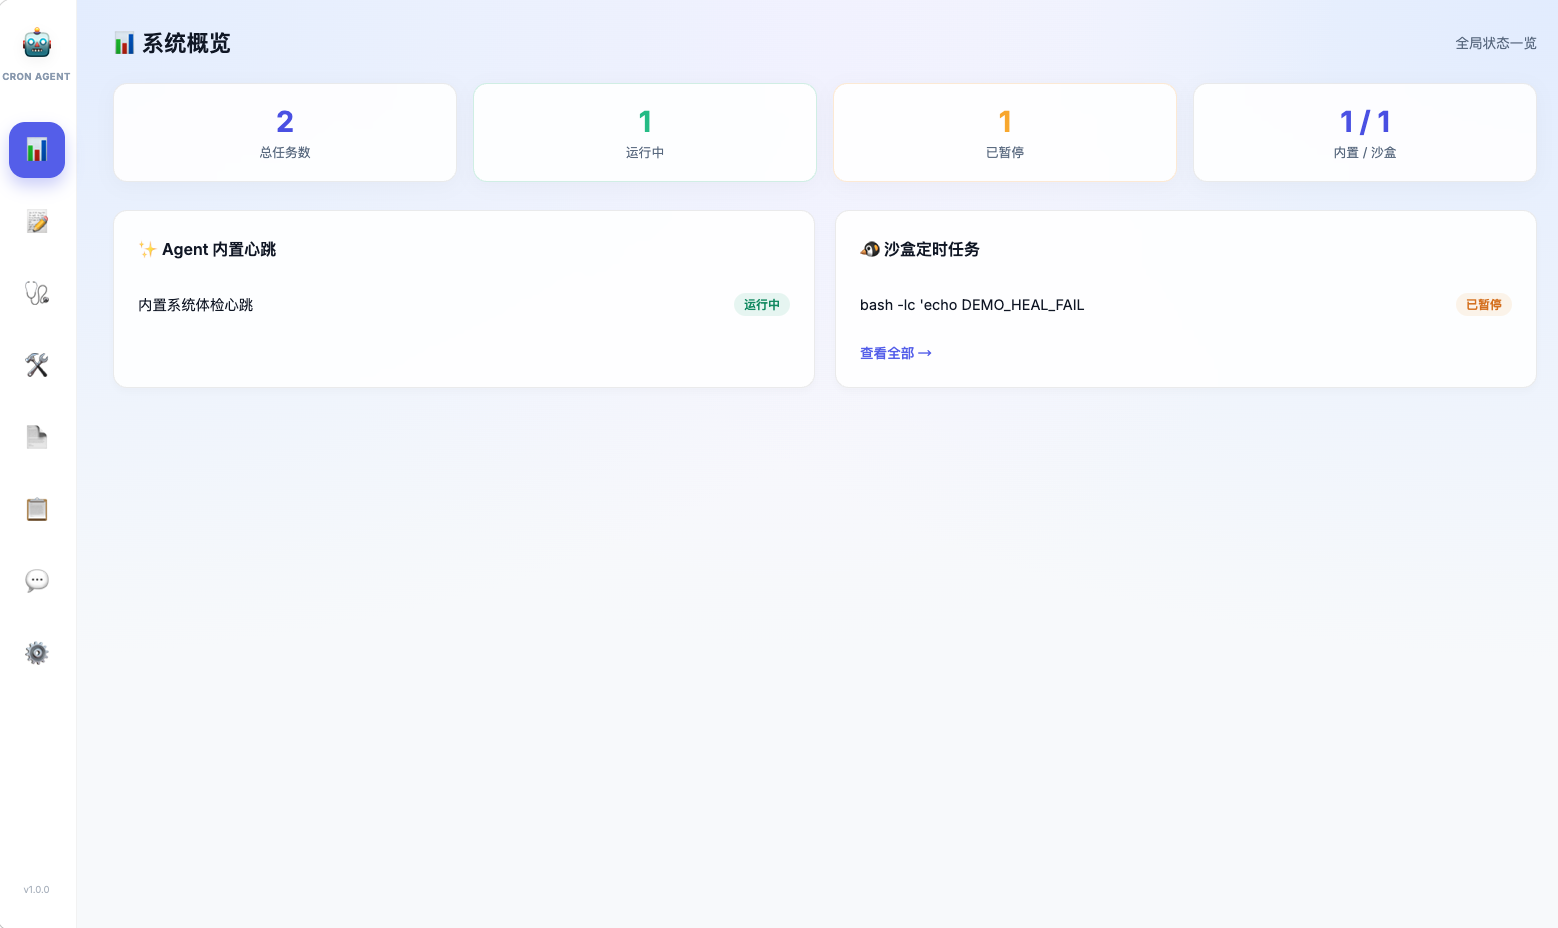
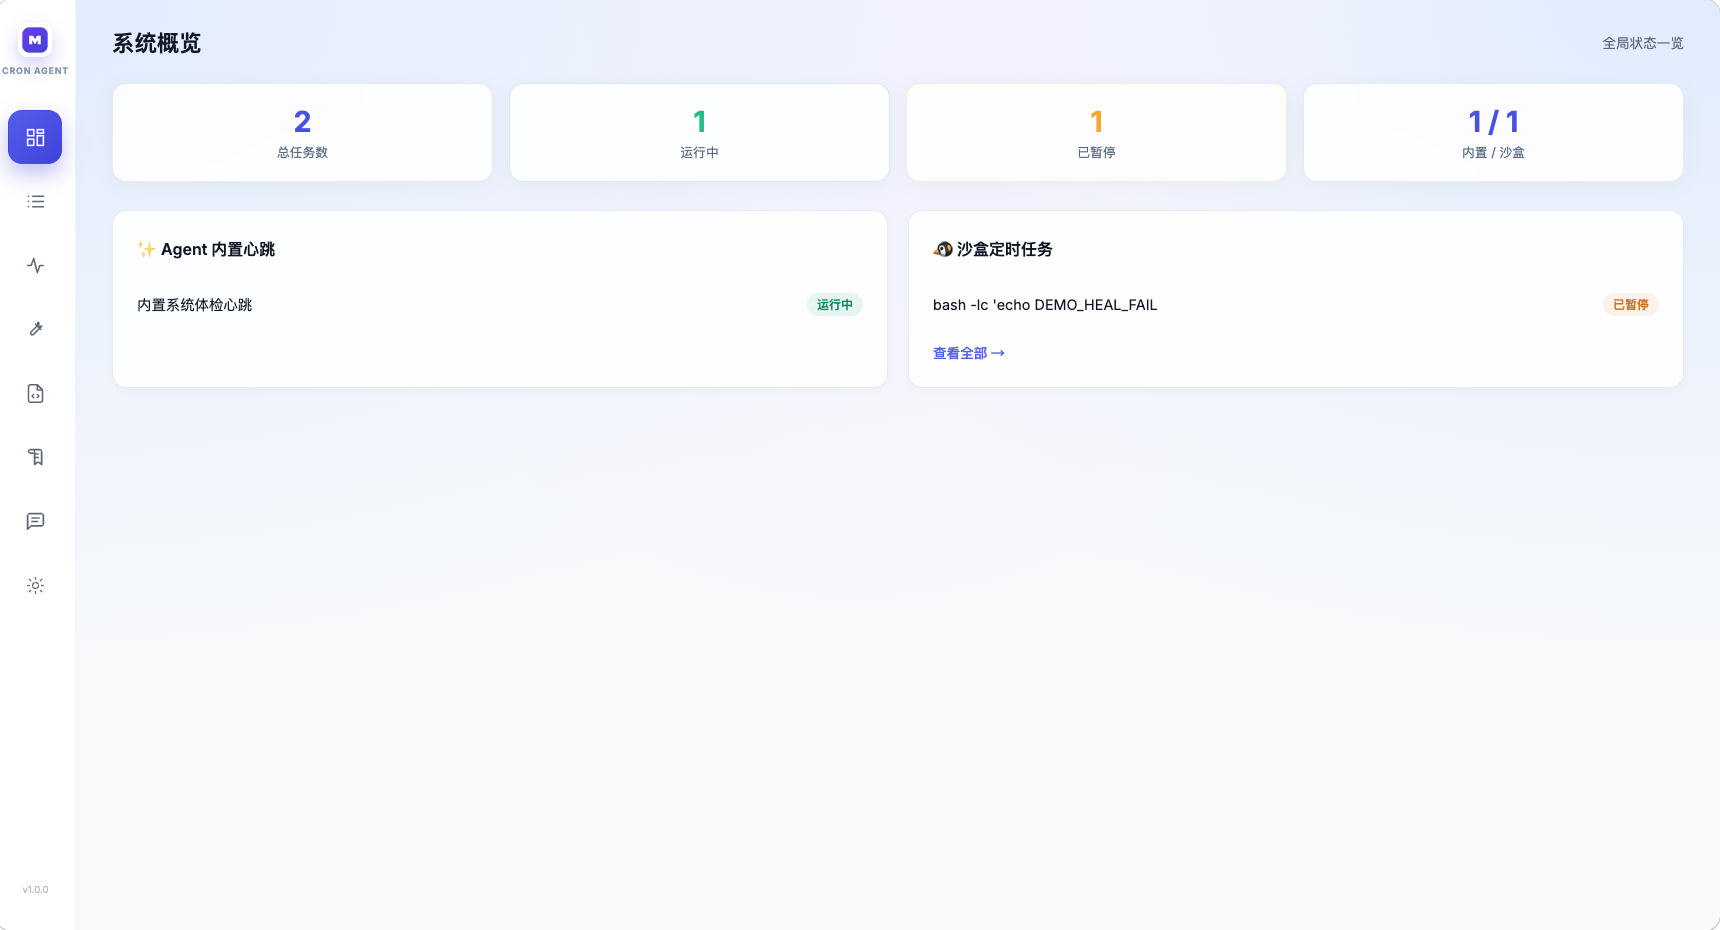
Refresh README and dashboard screenshot

diff --git a/README.md b/README.md
@@ -2,7 +2,7 @@
 
 # Local Cron Agent
 
-### A multi-agent control plane for local automation, scheduling, and self-healing
+### A local-first multi-agent control plane for automation, scheduling, and self-healing
 
 <p>
   <img src="https://img.shields.io/badge/Python-3.9%2B-3776AB?style=for-the-badge&logo=python&logoColor=white" alt="Python">
@@ -14,7 +14,7 @@
 </p>
 
 <p>
-  Turn natural-language instructions into scheduled jobs, sandbox actions, health checks, and recovery workflows through a layered multi-agent system.
+  Turn natural language into managed cron jobs, sandbox scripts, health checks, and recovery workflows.
 </p>
 
 <img src="docs/images/dashboard.png" alt="Local Cron Agent dashboard" width="100%">
@@ -25,56 +25,32 @@
 
 ## Overview
 
-Local Cron Agent is a local-first automation platform built around a **multi-agent collaboration model**.
+Local Cron Agent is a compact operations console for local automation.  
+It combines a Vue dashboard, FastAPI backend, LangGraph orchestration, and a sandbox tool layer to safely run and manage scheduled tasks.
 
-Instead of letting one monolithic agent do everything, the system splits responsibilities across:
+Instead of one monolithic agent loop, responsibilities are split:
 
-- an **Orchestrator Agent** that plans and coordinates work,
-- a **Worker Agent** that executes each step,
-- and a **tool layer** specialized in cron management, shell execution, file generation, service control, system inspection, and recovery actions.
+- **Orchestrator**: planning and step-level flow control.
+- **Worker Agents**: execution by capability domain.
+- **Tool Layer**: cron admin, shell execution, file writing, service control, health scan.
+- **State Layer**: unified task state and run history in SQLite.
 
-The result is a control surface where users can chat with the system, inspect scheduled jobs, repair failed tasks, browse sandbox files, and monitor health status from one interface.
+## What Makes It Useful
 
-## Why It Feels Different
-
-Most cron dashboards stop at CRUD.  
-Local Cron Agent goes further:
-
-- it accepts natural-language requests instead of only form input,
-- it executes through a multi-agent pipeline instead of a single opaque loop,
-- it streams progress back to the UI so execution feels alive,
-- and it closes the loop with health checks and self-healing history.
-
-## Multi-Agent Design
-
-This project is presented as a **real multi-agent collaborative system** with clear role separation.
-
-| Layer | Role | Responsibility |
-| --- | --- | --- |
-| Orchestrator | Planner / Executor / Solver | Breaks down requests, manages state transitions, sequences work, and closes tasks |
-| Worker Agent | Streaming execution agent | Handles step-level reasoning, tool calling, streaming progress, and result emission |
-| Tool Agents | Domain capability layer | Cron admin, shell execution, file writing, health scanning, service control, search |
-| State Layer | TaskManager + SQLite | Stores job state, sync status, run history, heal records |
-| Memory Layer | ChromaDB + short-term context | Retains reusable SOP-like patterns and recent task context |
-
-### How a complex request flows
-
-1. A user sends a natural-language request from the Web UI.
-2. The **LangGraph Orchestrator** converts that request into a stepwise execution plan.
-3. The **Worker Agent** executes each step and calls the right tool.
-4. Progress events stream back over WebSocket in real time.
-5. Task status, health results, and recovery actions are persisted into the local data store.
+- Natural-language task management through chat.
+- Multi-agent task routing and execution flow.
+- Real-time stream feedback over WebSocket.
+- Unified view of internal heartbeat jobs + sandbox cron jobs.
+- Built-in health checks and auto-heal records.
+- Local sandbox boundary (Multipass) for safer command execution.
 
 ## Architecture
 
 ```mermaid
 flowchart LR
-    UI["Vue 3 Control Console"] --> API["FastAPI + WebSocket"]
+    UI["Vue 3 Console"] --> API["FastAPI + WebSocket"]
     API --> ORCH["LangGraph Orchestrator"]
-    ORCH --> PLAN["Planner"]
     ORCH --> EXEC["Executor"]
-    ORCH --> SOLVE["Solver"]
-
     EXEC --> WORKER["Streaming Worker Agent"]
     WORKER --> TOOLS["Tool Layer"]
 
@@ -83,45 +59,30 @@ flowchart LR
     TOOLS --> FILE["Sandbox File Writer"]
     TOOLS --> HEALTH["Health Scanner"]
     TOOLS --> SERVICE["Service Manager"]
-    TOOLS --> SEARCH["Search Tool"]
+    TOOLS --> HEARTBEAT["Agent Heartbeat Controller"]
 
     API --> TM["TaskManager"]
     TM --> DB["SQLite"]
-    WORKER --> MEM["ChromaDB Memory"]
     TOOLS --> VM["Multipass Sandbox"]
 ```
 
-## Product Surfaces
+## Core Screens
 
-The frontend is not just a chat window. It is a compact operations console with multiple views:
-
-- **Dashboard**: overall status for internal jobs and sandbox jobs
-- **Tasks**: inspect, pause, resume, delete, and repair scheduled tasks
-- **Health**: run system checks and review automated healing results
-- **Heal Center**: browse healing actions, categories, and historical outcomes
-- **Scripts**: browse and edit files inside the sandbox
-- **Logs**: inspect backend runtime logs
-- **AI Chat**: issue requests in natural language and watch execution stream live
-
-## Core Capabilities
-
-| Capability | Description |
-| --- | --- |
-| Natural-language task control | Manage jobs and automation through chat |
-| Multi-agent orchestration | Use LangGraph to coordinate planner, executor, and solver roles |
-| Streaming UX | Push step-level execution status through WebSocket |
-| Unified task state | Merge internal jobs and sandbox cron jobs into one state model |
-| Sandbox operations | Execute shell commands and scripts safely inside Multipass |
-| Health and recovery | Run health probes, apply healing actions, and store recovery records |
-| Memory-backed reuse | Preserve successful patterns through local vector memory |
+- **Dashboard**: status summary and quick task visibility.
+- **Tasks**: pause/resume/delete/heal jobs.
+- **Health**: system check and auto-heal feedback.
+- **Heal Center**: categorized heal history.
+- **Scripts**: sandbox file browser + editor.
+- **Logs**: runtime logs.
+- **AI Chat**: natural-language command surface.
 
 ## Tech Stack
 
 ```text
 Frontend       Vue 3 + Vite
 Backend        FastAPI + WebSocket + APScheduler
-Agents         exquisite_agent + custom StreamingFCAgent
 Orchestration  LangGraph
+Agents         exquisite_agent + custom StreamingFCAgent
 Persistence    SQLite
 Memory         ChromaDB
 Sandbox        Multipass Ubuntu VM
@@ -131,57 +92,50 @@ Sandbox        Multipass Ubuntu VM
 
 ```text
 .
-├── server.py                 # Backend entry, APIs, WebSocket streaming, health workflows
-├── langgraph_orchestrator.py # Multi-agent orchestration layer
-├── streaming_fc_agent.py     # Streaming worker agent
-├── task_manager.py           # Unified task state manager
-├── models.py                 # SQLite data model
-├── tools/                    # Tool implementations
-├── frontend/                 # Vue 3 application
-├── agent_data/               # SQLite + vector memory storage
-├── start.sh                  # Start backend + frontend
-└── stop.sh                   # Stop backend + frontend
+├── server.py                 # API entry + websocket stream + lifecycle jobs
+├── langgraph_orchestrator.py # multi-agent flow + routing
+├── streaming_fc_agent.py     # streaming function-calling worker
+├── task_manager.py           # unified state + sync logic
+├── models.py                 # SQLite models and queries
+├── tools/                    # sandbox and control tools
+├── frontend/                 # Vue application
+├── agent_data/               # SQLite and vector db data
+├── start.sh                  # robust start script
+└── stop.sh                   # robust stop script
 ```
 
 ## Quick Start
 
-### 1. Prepare the sandbox
+### 1) Prepare sandbox
 
 ```bash
 multipass launch 24.04 --name agent-sandbox --cpus 1 --memory 1G --disk 6G
 ```
 
-If the sandbox is broken, rebuild it:
+### 2) Configure environment
 
-```bash
-multipass delete --purge agent-sandbox
-multipass launch 24.04 --name agent-sandbox --cpus 1 --memory 1G --disk 6G
-```
-
-### 2. Configure environment
-
-Create a `.env` with the required runtime values:
+Create `.env` (example):
 
 ```env
 LLM_API_KEY=
-LLM_MODEL_ID=
+LLM_MODEL_ID=qwen3.5-flash
 LLM_BASE_URL=
 SERPAPI_API_KEY=
+
 DB_PERSIST_DIRECTORY=./agent_data/chroma_db
 DB_COLLECTION_SOP=agent_sop_experience
-EMBEDDING_PROVIDER=openai
-EMBEDDING_MODEL=text-embedding-3-small
+
+EMBEDDING_PROVIDER=huggingface
+EMBEDDING_MODEL=google/embeddinggemma-300m
 ```
 
-### 3. Run the app
-
-Recommended:
+### 3) Start
 
 ```bash
 ./start.sh
 ```
 
-Then open:
+Open:
 
 - Frontend: `http://localhost:5173`
 - Backend: `http://localhost:8000`
@@ -190,18 +144,6 @@ Stop:
 
 ```bash
 ./stop.sh
-```
-
-## Manual Run
-
-```bash
-# backend
-python -m uvicorn server:app --host 0.0.0.0 --port 8000
-
-# frontend
-cd frontend
-npm install
-npm run dev
 ```
 
 ## Important APIs
@@ -214,7 +156,7 @@ npm run dev
 - `POST /api/jobs/toggle`
 - `POST /api/jobs/delete`
 
-### Health and Healing
+### Health / Healing
 
 - `GET /api/tasks/health`
 - `GET /api/tasks/{task_id}/runs`
@@ -234,15 +176,13 @@ npm run dev
 
 - `WS /ws/chat`
 
-## Example Use Cases
+## Example Requests
 
-- “List all current jobs and pause the noisy one.”
-- “Write a cleanup script in the sandbox and schedule it to run every hour.”
-- “Inspect system health, repair broken services, and report what changed.”
-- “Show me healing history for failed tasks.”
+- “List all jobs and pause the noisy one.”
+- “Generate a cleanup script in sandbox and schedule it hourly.”
+- “Run system health check and show what was auto-healed.”
 
 ## Notes
 
-- This repository is designed to be viewed as a **multi-agent automation system**, not just a cron UI.
-- The sandbox instance is named `agent-sandbox` by default throughout the project.
-- Local state, logs, and secrets should stay out of version control.
+- Default sandbox name: `agent-sandbox`
+- Keep local secrets and runtime artifacts out of version control.